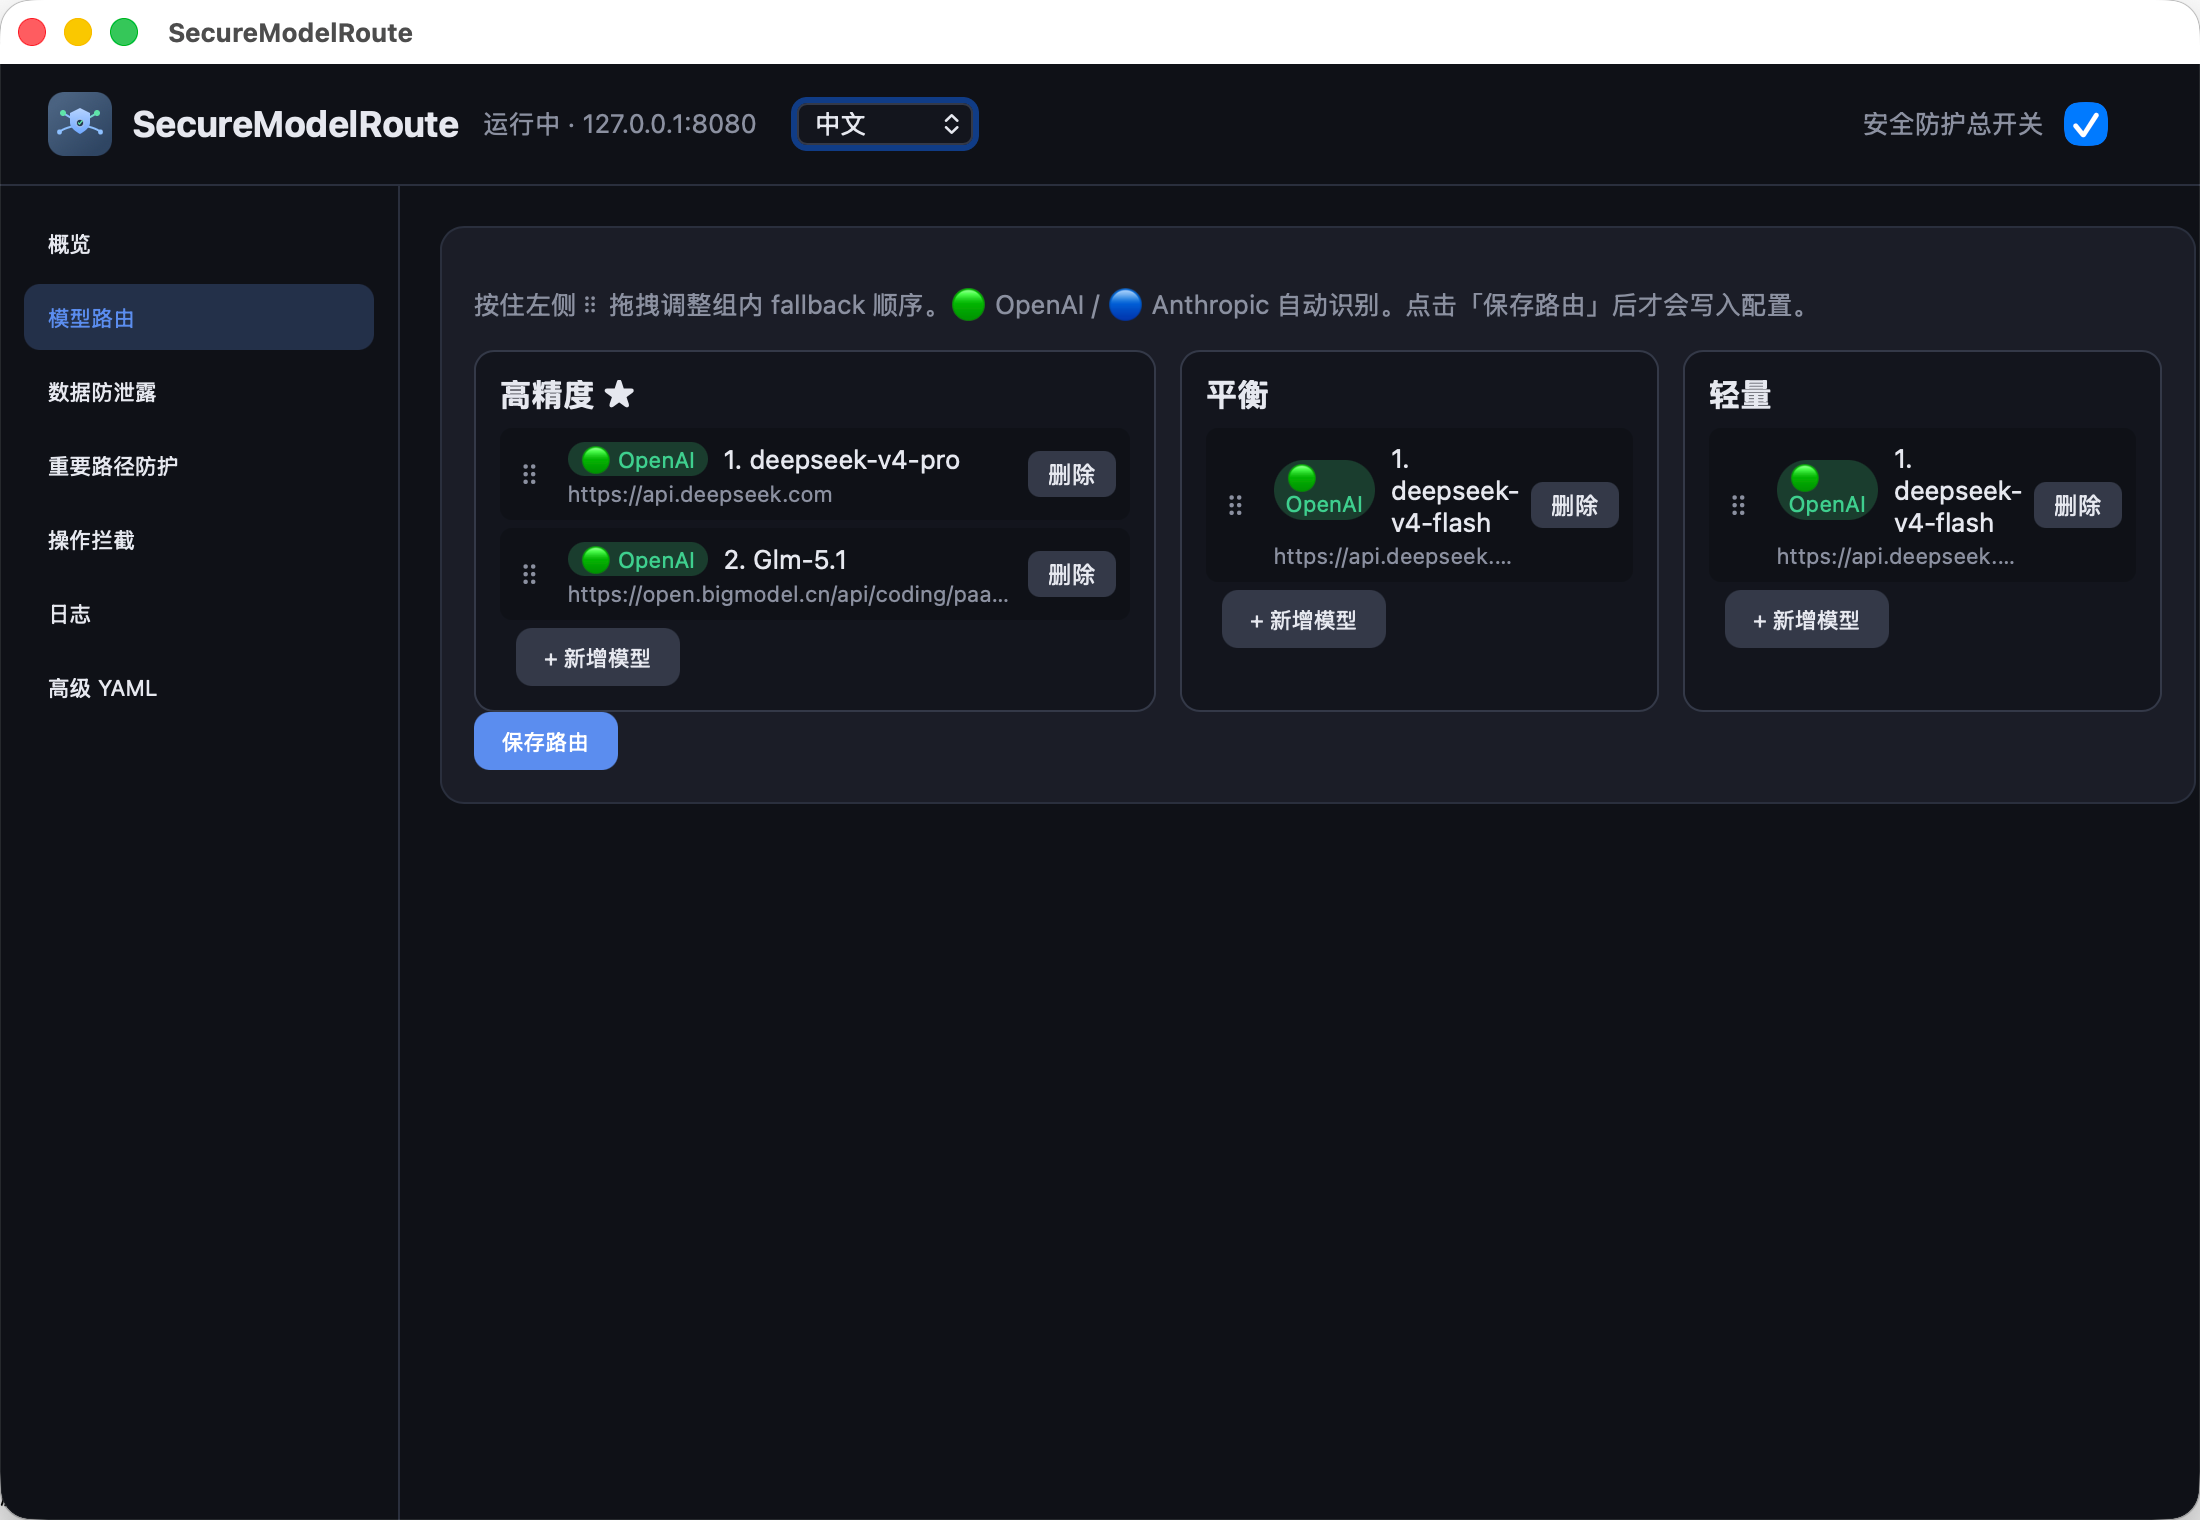
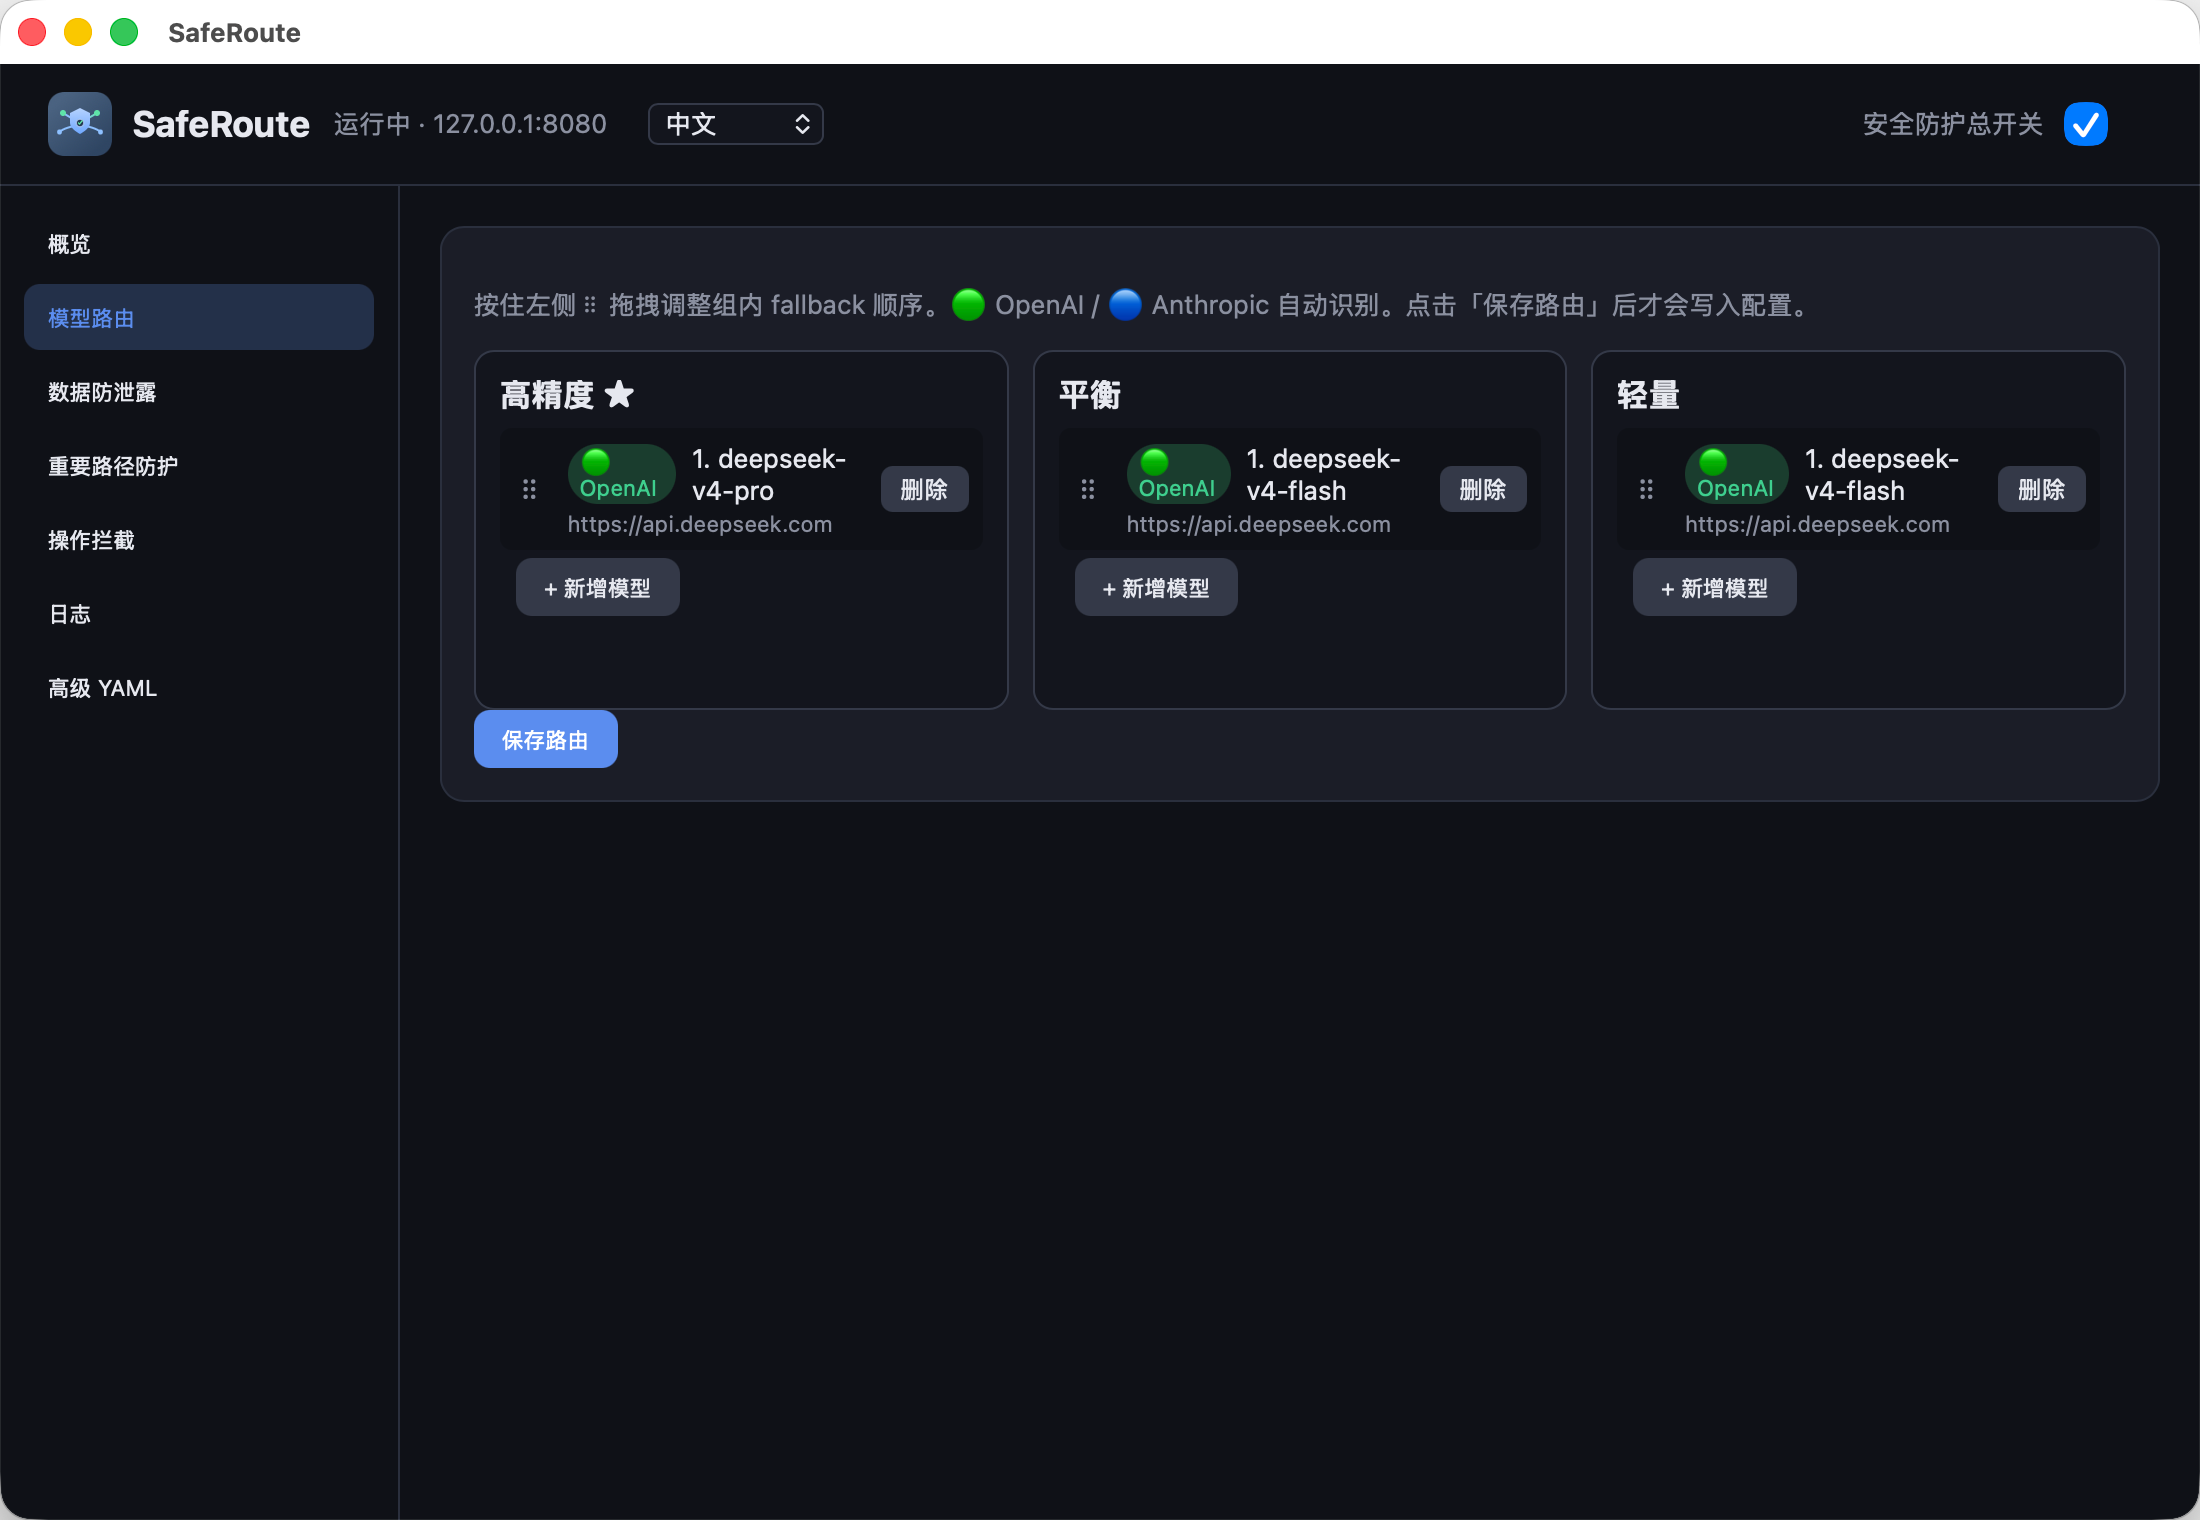
Adapt packaging and tests for SafeRoute.app and refresh README screenshots.
Support SafeRoute.app in macOS install/package flows, accept SafeRoute UI markers in Windows tests, harden UTM GUI build polling, and update docs screenshots plus desktop GUI mention in README.

Changed region(s): [[0.2164, 0.2474, 0.9891, 0.4947], [0.0618, 0.0618, 0.4636, 0.1237], [0.0927, 0.0, 0.1855, 0.0309]]

diff --git a/README.zh-CN.md b/README.zh-CN.md
@@ -6,7 +6,8 @@
 - 将 IDE、Agent 或 SDK 的 `base_url` 指向 `http://127.0.0.1:8080/v1`，即可安全、可靠地调用/访问多个大模型，例如 GPT、Claude Opus、Gemini、DeepSeek、GLM、Kimi等，
 - 无需手动切换，API 调用失败、Token额度不足、频率限制时，自动Fallback/回退，全程无中断。
 - 同时提供数据防泄漏、数据脱敏、操作拦截、文件路径防护等安全保障，
-- 满足个人用户使用LLM和Agent时，对安全、可靠的基本需求。
+- 满足个人用户使用LLM和Agent时，对安全、可靠的基本需求，
+- 支持MacOS、Windows桌面应用，一键安装。
 
 **English:** [README.md](README.md)
 

diff --git a/README.md b/README.md
@@ -7,6 +7,7 @@
 - No manual switching: on API failure, exhausted quota, or rate limits, fallback runs automatically with no interruption.
 - Built-in safeguards: data-leak prevention, redaction, operation blocking, and file-path protection.
 - Fullfill the basic needs of individual users for secure and reliable access to LLMs and agents.
+- Provide MacOS and Windows desktop GUI app, one-click install.
 
 **中文文档:** [README.zh-CN.md](README.zh-CN.md)
 